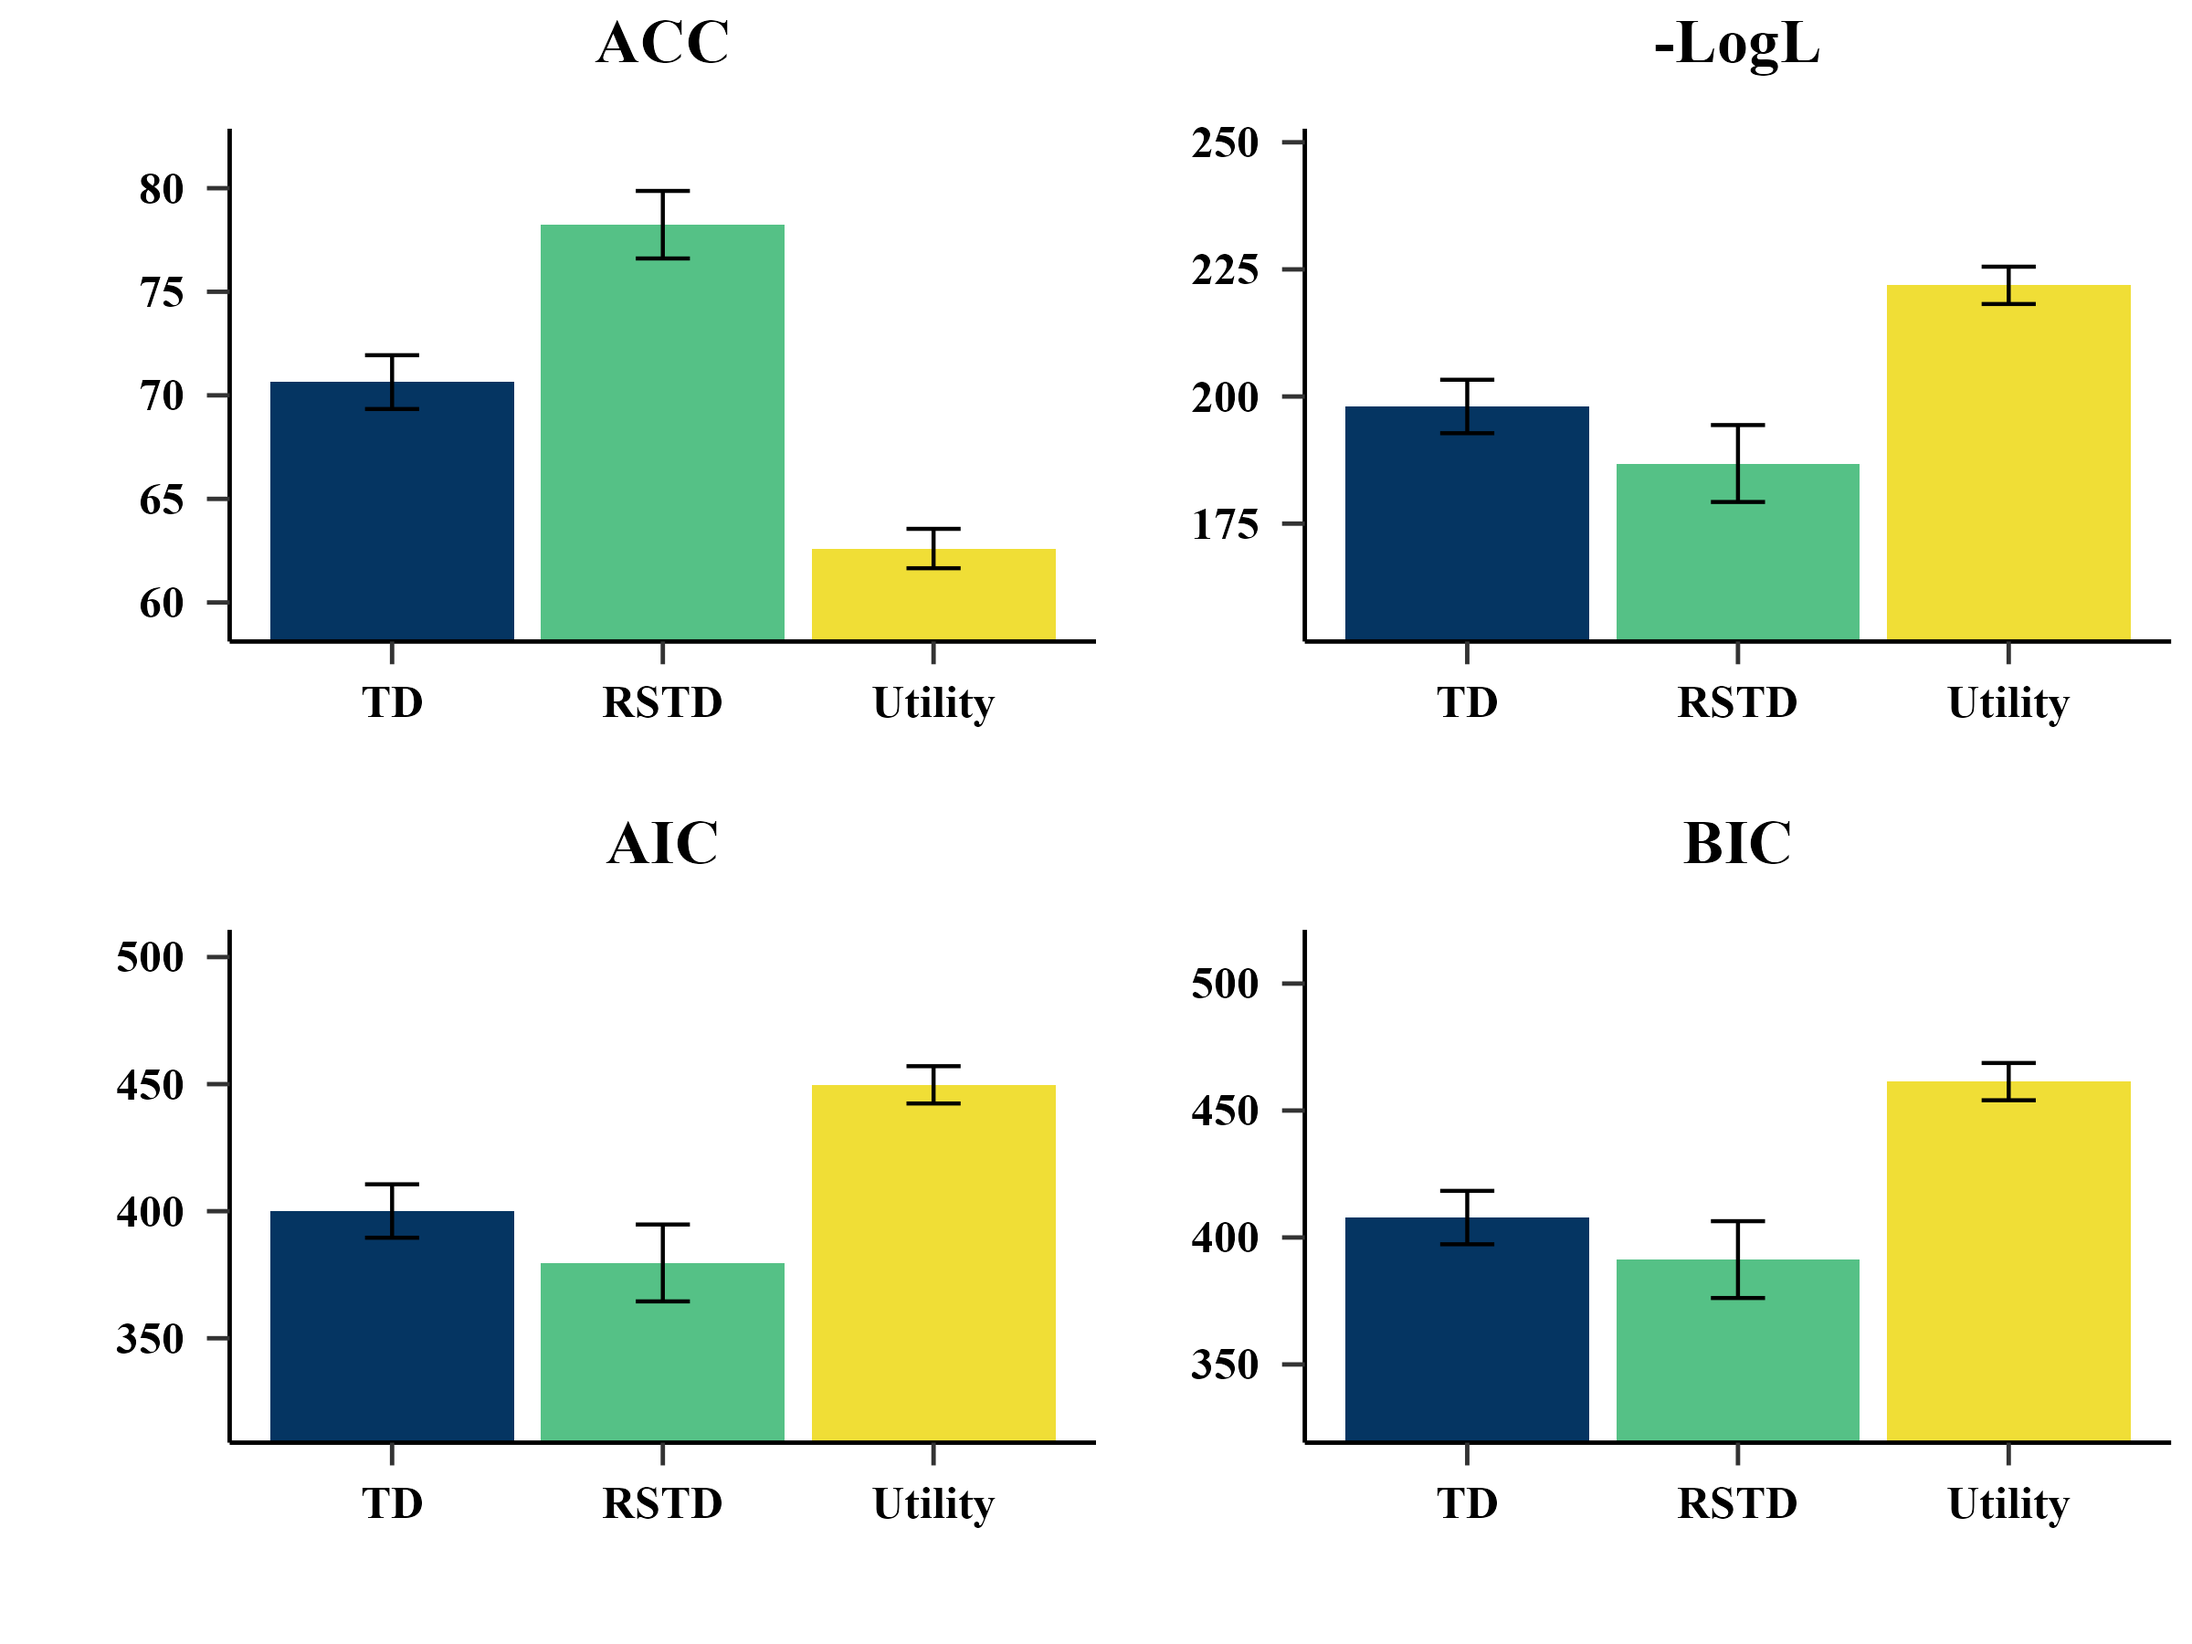
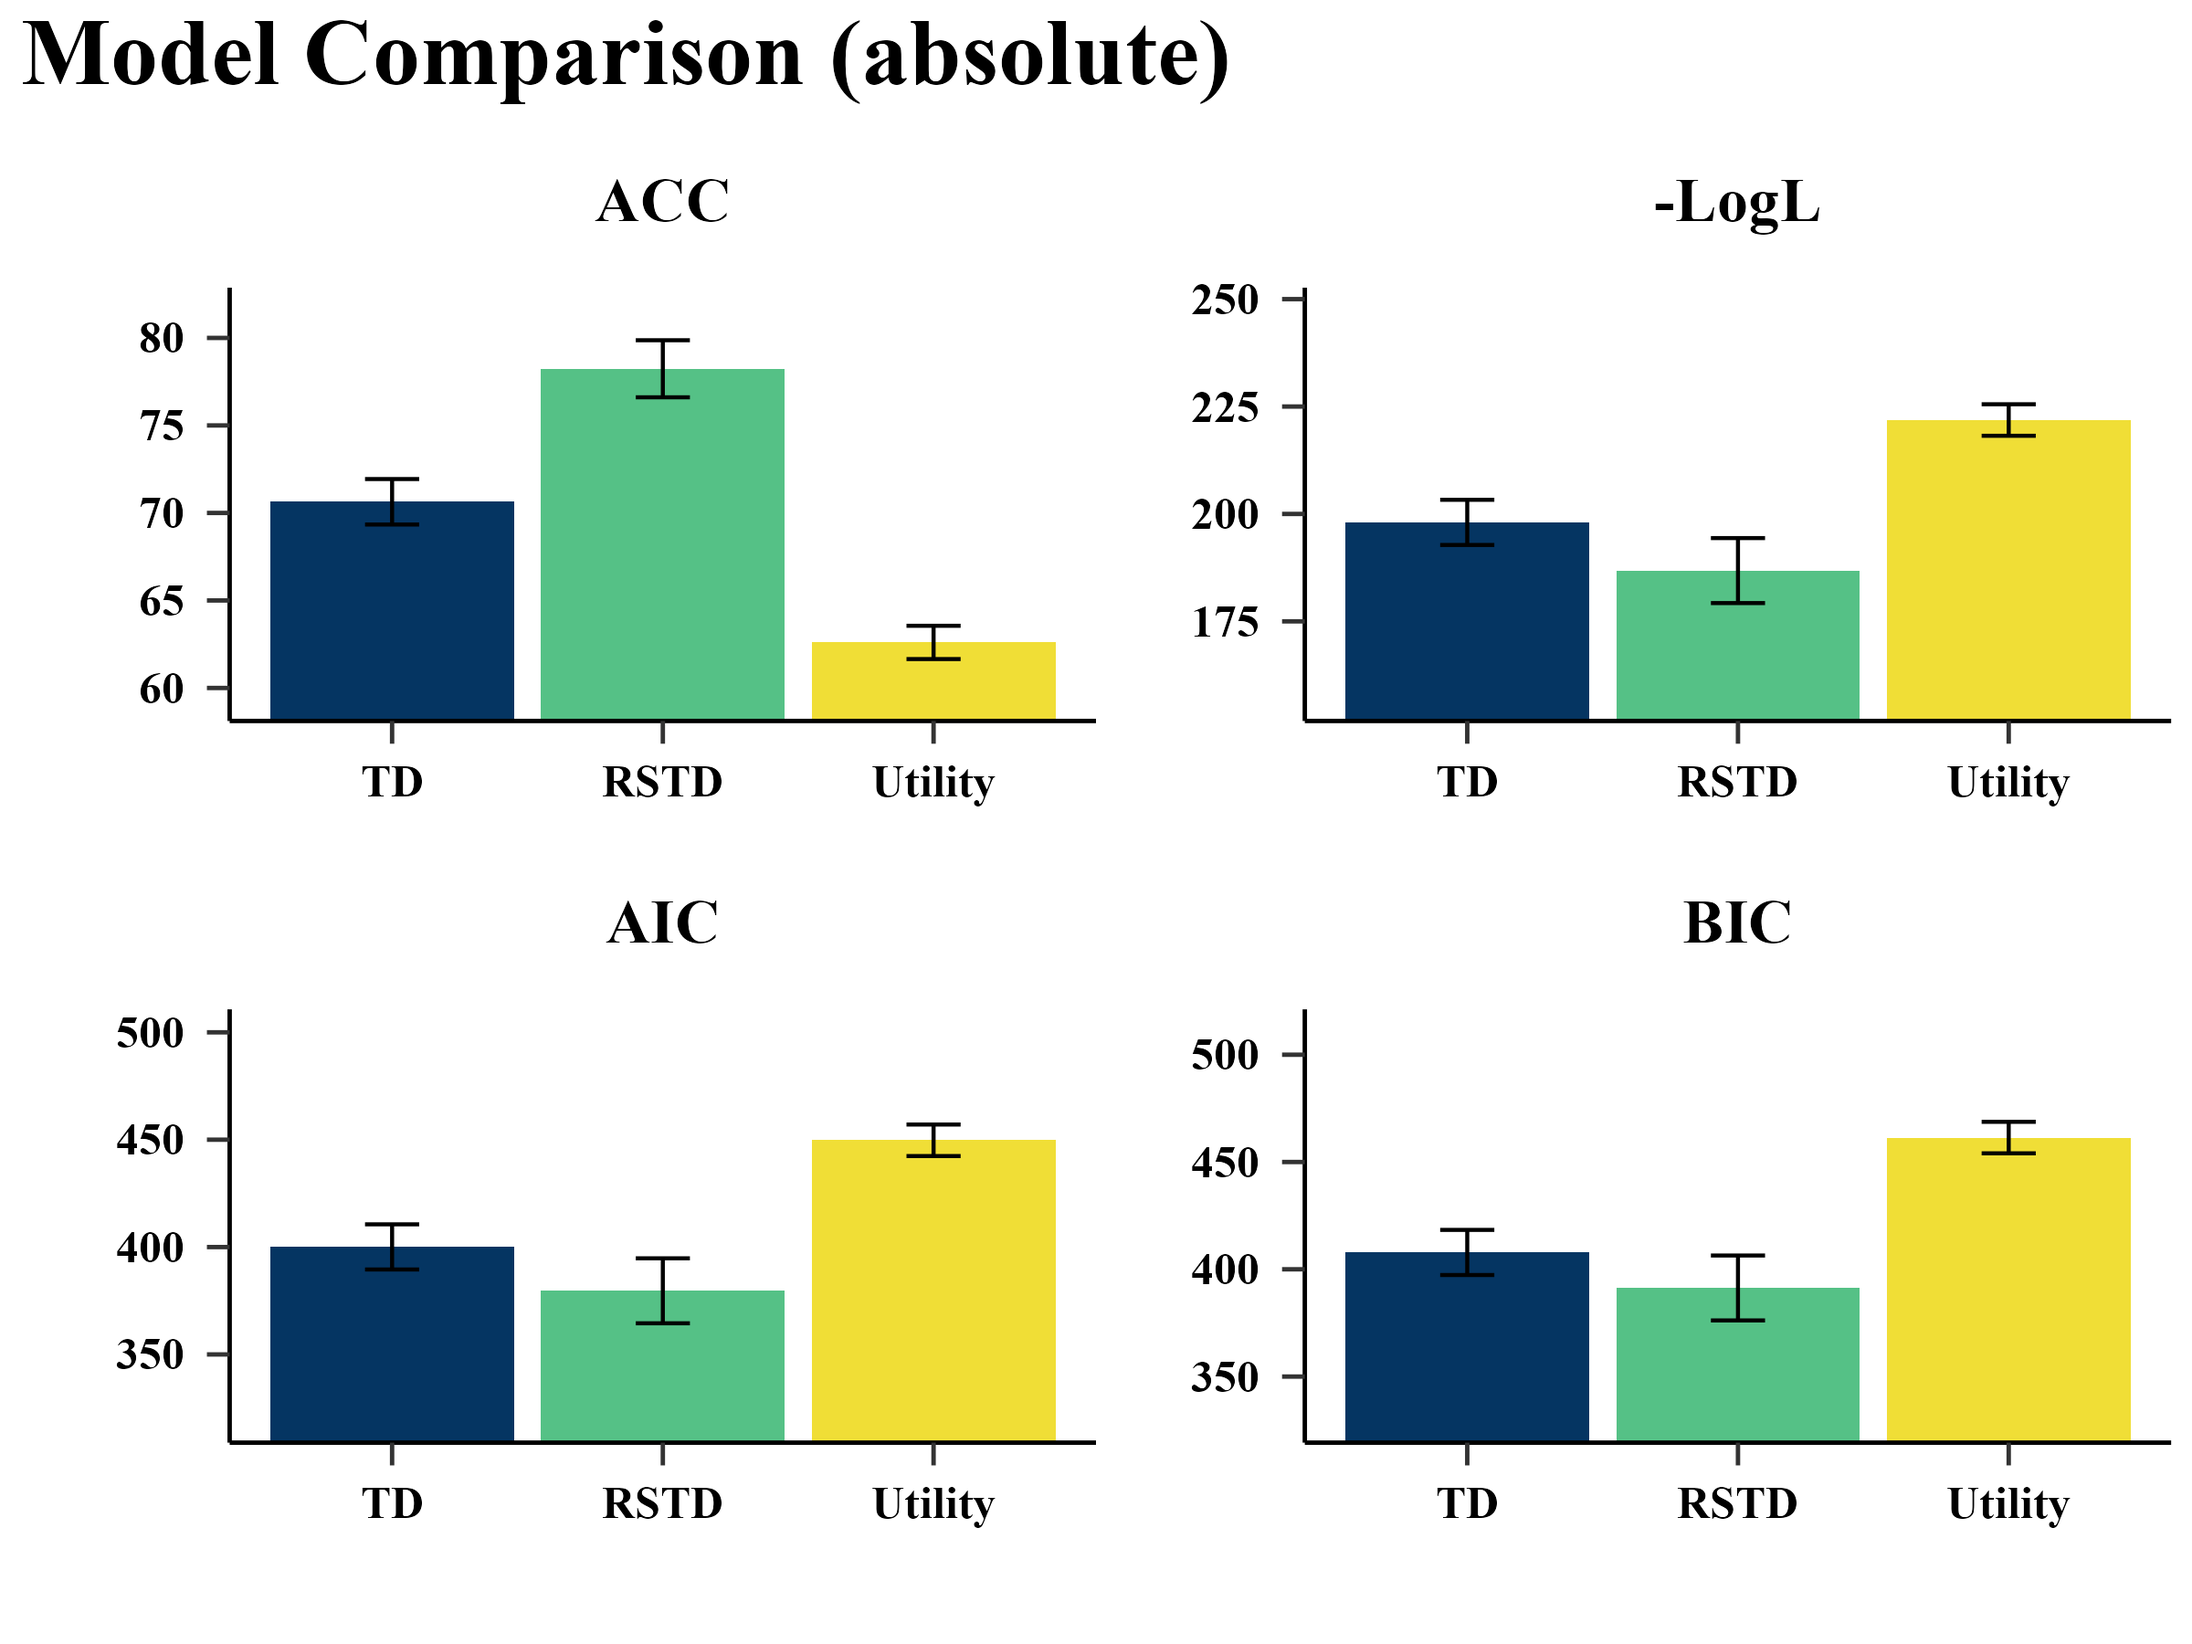
update README

diff --git a/README.md b/README.md
@@ -1,10 +1,9 @@
-# binaryRL <img src="fig/logo.png" align="right" height="120"/>
+# binaryRL | <img src="https://img.shields.io/github/v/release/yuki-961004/binaryRL?color=white&style=for-the-badge" style="vertical-align: middle;"> <img src="fig/logo.png" align="right" height="120"/>
 
 <!-- badges: start -->
 
-[![GitHub release (latest by date)](https://img.shields.io/github/v/release/yuki-961004/binaryRL?logo=github&logoColor=white&color=white)](https://github.com/yuki-961004/binaryRL/releases/latest)
 [![R-CMD-check](https://github.com/yuki-961004/binaryRL/actions/workflows/R-CMD-check.yaml/badge.svg)](https://github.com/yuki-961004/binaryRL/actions/workflows/R-CMD-check.yaml)
-[![Codecov test coverage](https://codecov.io/gh/yuki-961004/binaryRL/branch/main/graph/badge.svg)](https://app.codecov.io/gh/yuki-961004/binaryRL)
+[![Code Coverage](https://codecov.io/gh/yuki-961004/binaryRL/branch/main/graph/badge.svg)](https://app.codecov.io/gh/yuki-961004/binaryRL)
 [![CRAN-Version](https://www.r-pkg.org/badges/version/binaryRL?color=%231E63B5)](https://CRAN.R-project.org/package=binaryRL)
 [![CRAN-Downloads](https://cranlogs.r-pkg.org/badges/grand-total/binaryRL?color=%23FA812F)](https://CRAN.R-project.org/package=binaryRL)
 
@@ -440,13 +439,11 @@ We also encourage advanced users to use `binaryRL::simulate_list()` and `binaryR
 ```r
 list_simulated <- binaryRL::simulate_list(
   data = binaryRL::Mason_2024_Exp2,
-  id = 1,
   obj_func = binaryRL::RSTD,
   n_params = 3, 
-  n_trials = 288,
+  n_trials = 360,
   lower = c(0, 0, 1),
   upper = c(1, 1, 1),
-  seed = 1,
   iteration = 30
 )
 ```
@@ -461,7 +458,6 @@ list_simulated <- binaryRL::simulate_list(
 ```r
 df_recovery <- binaryRL::recovery_data(
   list = list_simulated,
-  id = 1,
   fit_model = binaryRL::RSTD,
   model_name = "RSTD",
   n_params = 3,
@@ -593,7 +589,6 @@ binaryRL.res <- binaryRL::optimize_para(
   lower = c(0, 0, 0),
   upper = c(1, 1, 10),
   iteration = 30,
-  seed = 123,
   algorithm = "L-BFGS-B"
 )
 
